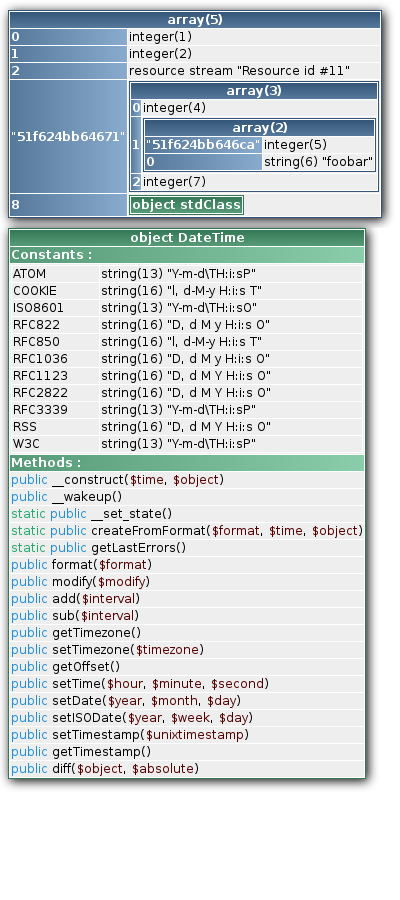
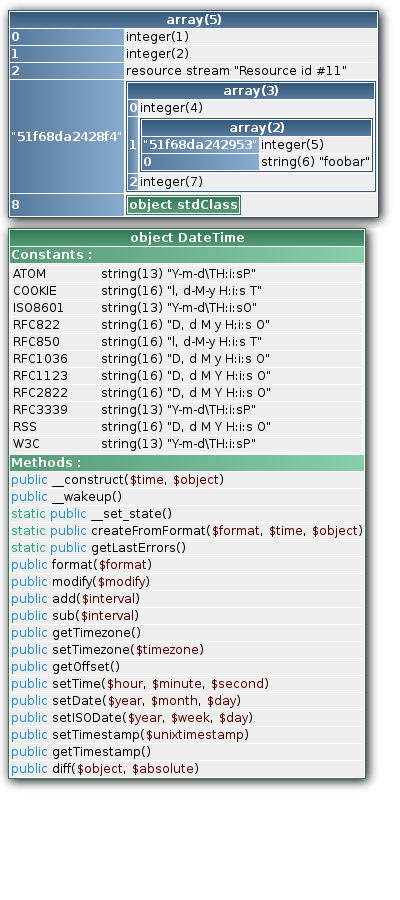
Ah ah, i'm a looser...

Changed region(s): [[0.12, 0.0, 0.99, 0.2489], [0.48, 0.0, 0.57, 0.0311]]

diff --git a/README.md b/README.md
@@ -17,7 +17,7 @@ A pretty variable dumper for HTML & cli.
 }
 ```
 
-In most of the cases you don't need AtoumBundle in your production environment.
+In most of the cases you don't need Dumper in your production environment.
 
 ```json
 {
@@ -82,10 +82,10 @@ array(5)
 |               0: integer(1)
 |               1: integer(2)
 |               2: resource stream "Resource id #11"
-| "51f624bb64671": array(3)
+| "51f68da2428f4": array(3)
 |                  | 0: integer(4)
 |                  | 1: array(2)
-|                  |    | "51f624bb646ca": integer(5)
+|                  |    | "51f68da242953": integer(5)
 |                  |    |               0: string(6) "foobar"
 |                  | 2: integer(7)
 |               8: object stdClass

diff --git a/resources/template.README.md b/resources/template.README.md
@@ -17,7 +17,7 @@ A pretty variable dumper for HTML & cli.
 }
 ```
 
-In most of the cases you don't need AtoumBundle in your production environment.
+In most of the cases you don't need Dumper in your production environment.
 
 ```json
 {
